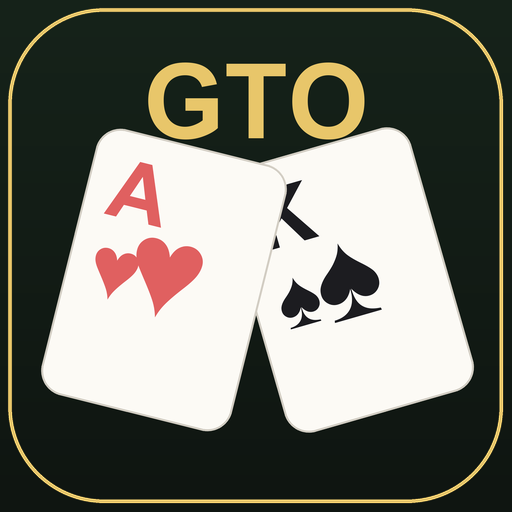
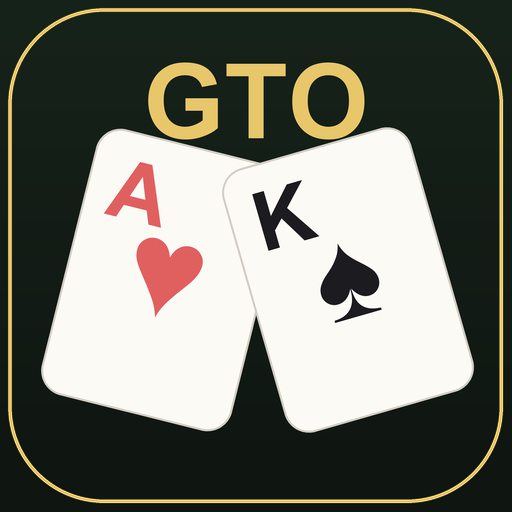
图标:牌只留大花色去掉角落小花色 + K 牌置于上层完整显示
- gen-store-assets.py 的 card() 去掉字母下方的小花色(只留角落 A/K 字母 + 中心大花色)
- 两张牌叠放顺序对调:A♥ 在后、K♠ 在前(在上层),让 K 完整露出
- 重生成 icon-512.png(Play 商店页图标已 API 更新)+ iOS [email redacted]
  (iOS 新图标随下个版本重打包出,不动当前审核)

diff --git a/tools/gen-store-assets.py b/tools/gen-store-assets.py
@@ -40,17 +40,15 @@ def rounded(draw, box, r, fill, outline=None, width=1):
 SUIT = {"spade":"♠", "heart":"♥", "club":"♣", "diam":"♦"}
 
 def card(w, h, rank, suit, suit_color):
-    """画一张扑克牌（白底圆角，左上角 rank+花色），返回 RGBA"""
+    """画一张扑克牌（白底圆角，左上角只放 rank 字母，中心一个大花色），返回 RGBA"""
     img = Image.new("RGBA", (w, h), (0, 0, 0, 0))
     d = ImageDraw.Draw(img)
     rounded(d, [0, 0, w - 1, h - 1], int(w * 0.13), fill=(252, 250, 245, 255),
             outline=(210, 205, 195, 255), width=max(2, w // 90))
     rf = font(int(h * 0.30))
-    sf = font(int(h * 0.30))
     pad = int(w * 0.12)
     d.text((pad, pad - int(h*0.04)), rank, font=rf, fill=suit_color)
-    # 花色用文字符号；Arial 含基本花色字形
-    d.text((pad, pad + int(h * 0.26)), SUIT[suit], font=sf, fill=suit_color)
+    # 只保留角落点数字母 + 中心大花色(去掉字母下方的小花色,用户 2026-07-05 要求)
     # 中心大花色
     cf = font(int(h * 0.46))
     bb = d.textbbox((0, 0), SUIT[suit], font=cf)
@@ -66,13 +64,13 @@ def make_icon():
     d = ImageDraw.Draw(img)
     # 圆角金色细边框
     rounded(d, [8*SS, 8*SS, S-9*SS, S-9*SS], 96*SS, fill=None, outline=(*GOLD, 110), width=4*SS)
-    # 两张牌扇形展开：K♠（后、右倾）+ A♥（前、左倾），都露出来、整体居中偏下
+    # 两张牌扇形展开：A♥（后、左倾）+ K♠（前、右倾，在上层，K 完整露出），整体居中偏下
     cw, ch = 196*SS, 274*SS
     k = card(cw, ch, "K", "spade", (28, 28, 32, 255)).rotate(16, expand=True, resample=Image.BICUBIC)
     a = card(cw, ch, "A", "heart", RED + (255,)).rotate(-14, expand=True, resample=Image.BICUBIC)
     cy = S//2 + 24*SS
-    img.alpha_composite(k, (S//2 - k.width//2 + 92*SS, cy - k.height//2))
     img.alpha_composite(a, (S//2 - a.width//2 - 92*SS, cy - a.height//2))
+    img.alpha_composite(k, (S//2 - k.width//2 + 92*SS, cy - k.height//2))
     # 顶部 GTO 金标
     gf = font(104*SS)
     bb = d.textbbox((0,0), "GTO", font=gf)